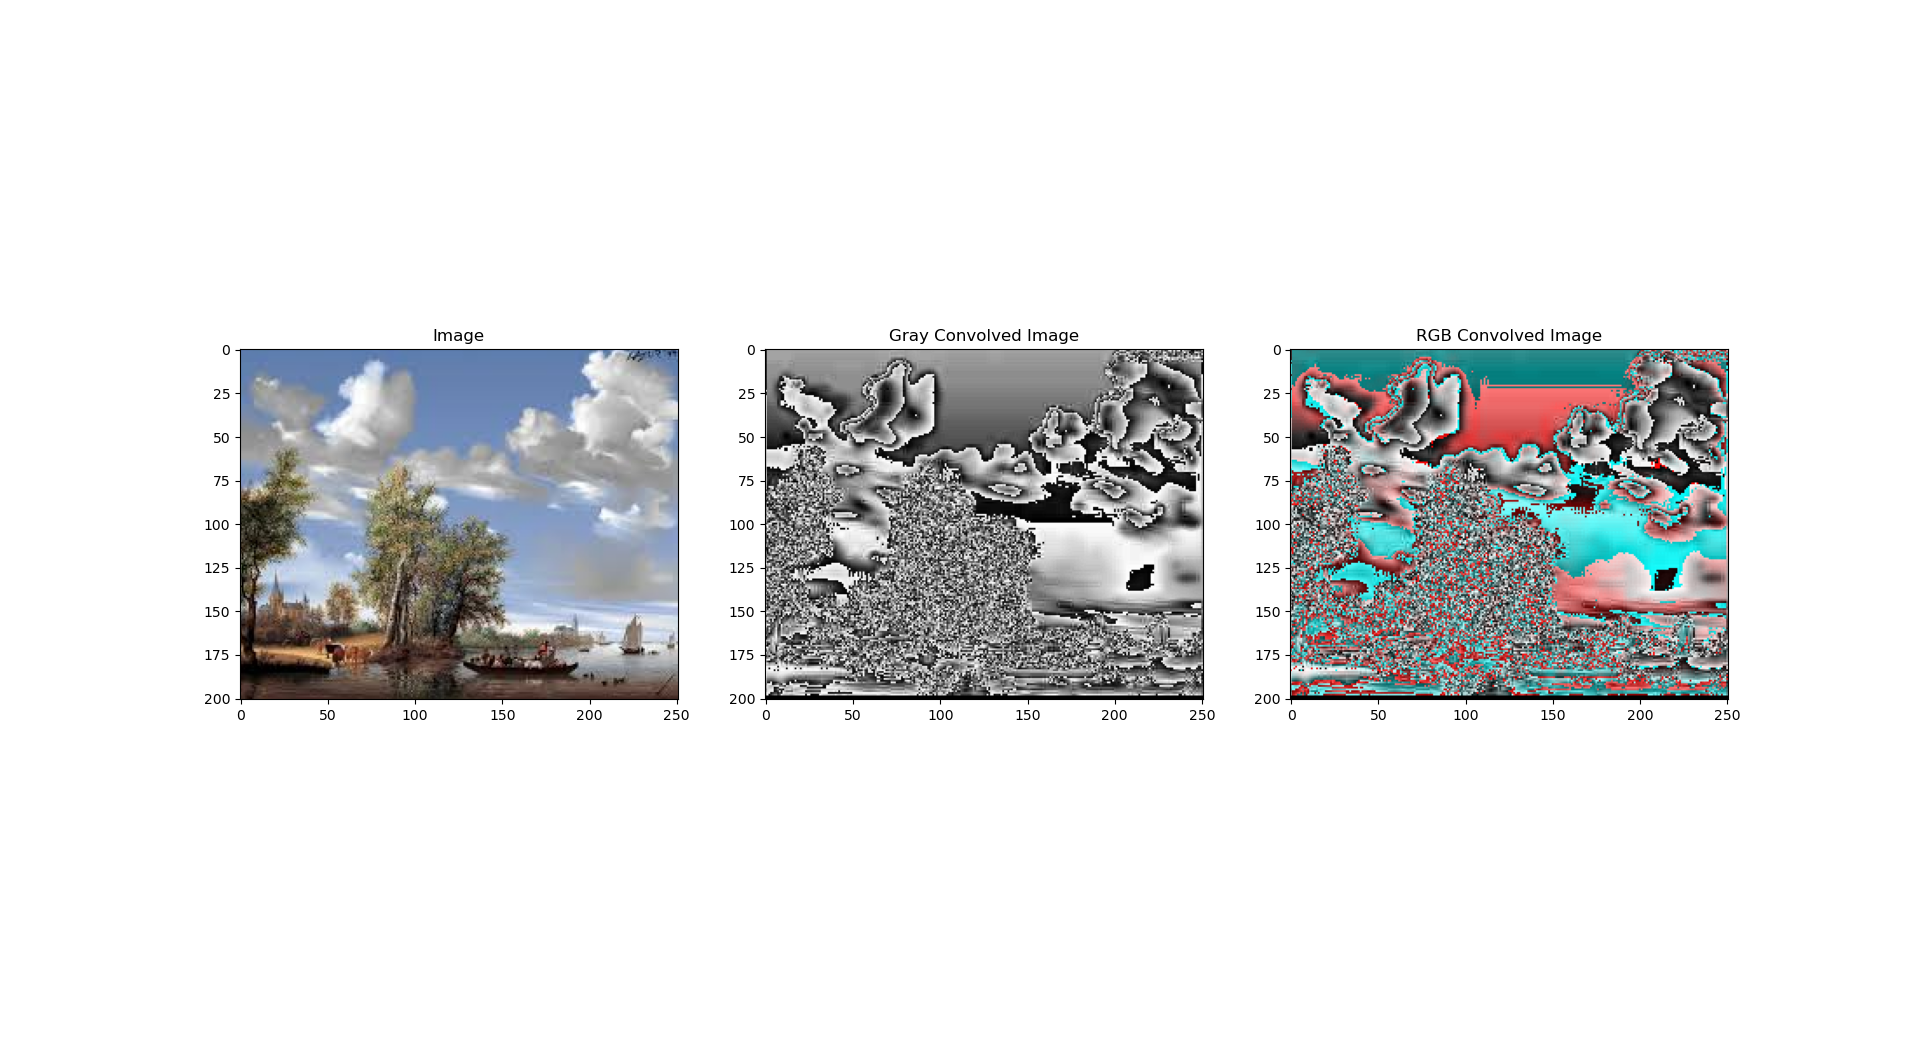
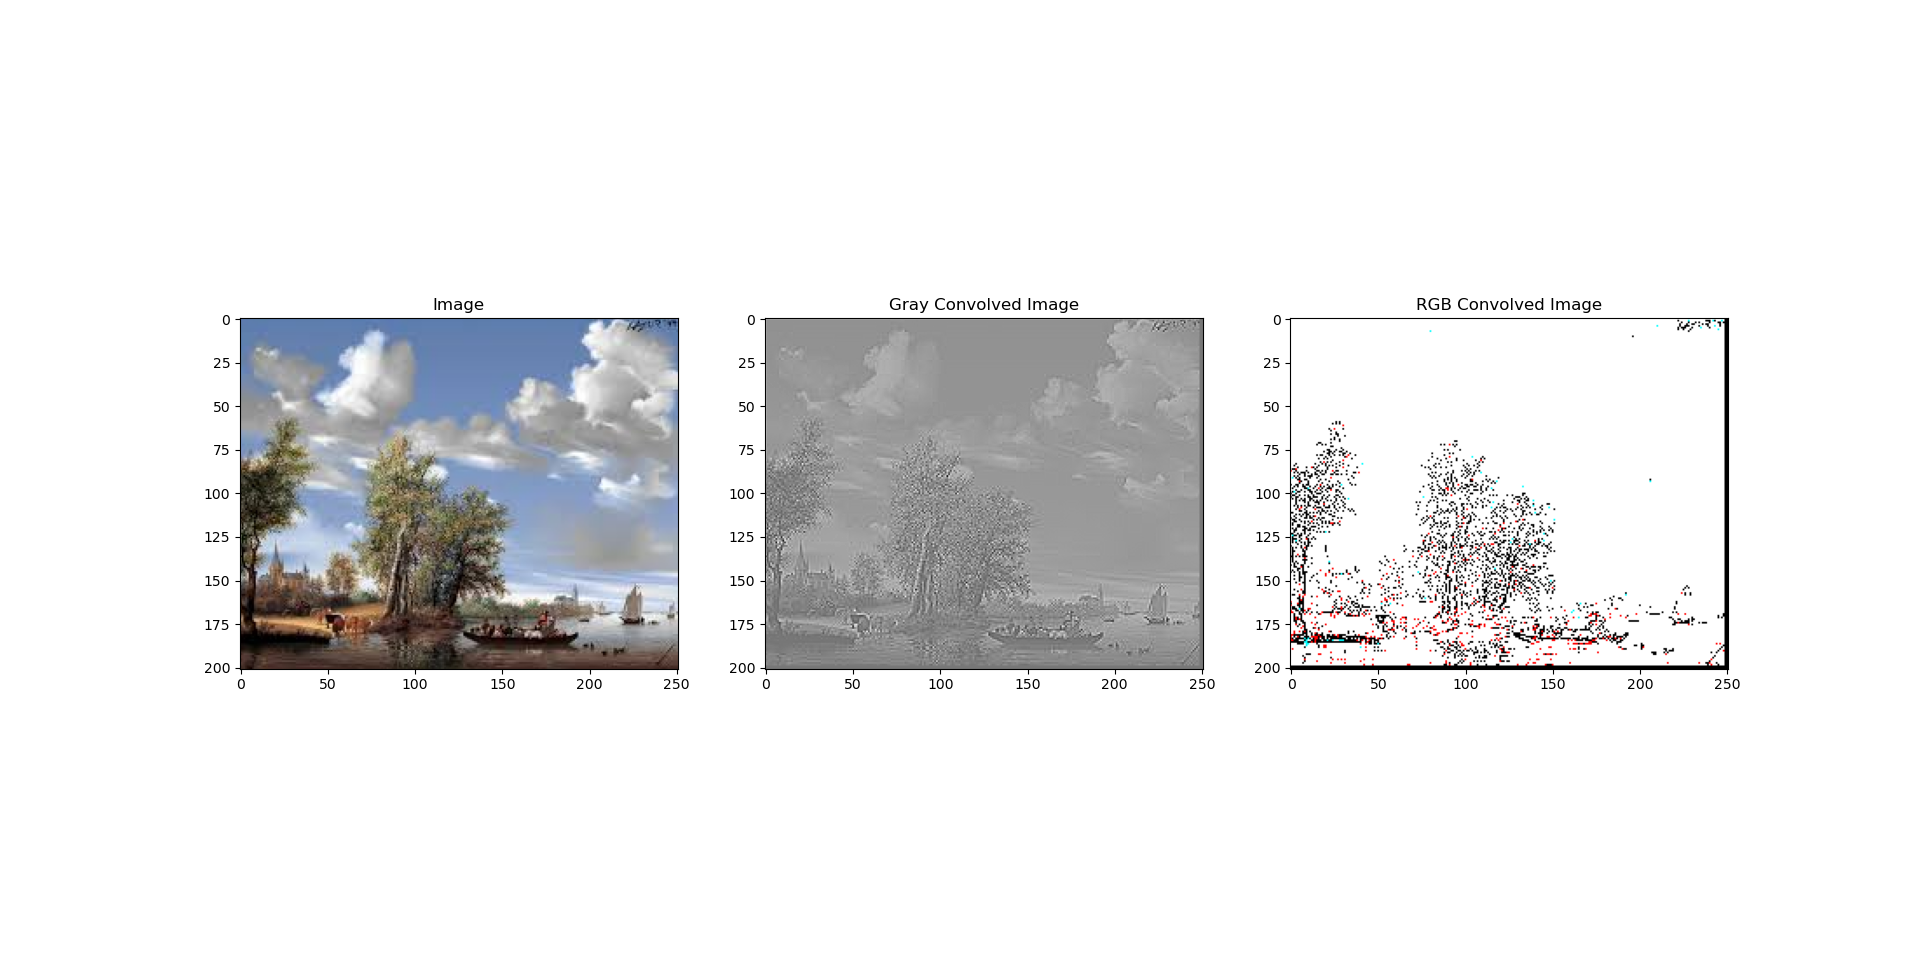
bug fixed

Changed region(s): [[0.0938, 0.3071, 0.9062, 0.7062], [0.1875, 0.4299, 0.2188, 0.4606]]

diff --git a/convolve.py b/convolve.py
@@ -4,7 +4,6 @@ import matplotlib.pyplot as plt
 from tqdm import tqdm 
 
 def convolve(img, kernel, pad=0, stride=1):
-    kernel = np.array([[-1,-1,-1],[-1,3,-1],[-1,-1,-1]])
     channels = 1
     try:
         if img.shape[2]==3: # three channels
@@ -25,13 +24,7 @@ def convolve(img, kernel, pad=0, stride=1):
                 img = c2
             else:
                 img==c2
-
-        if pad<0:
-            raise Exception("Argument pad cannot be less than 0.") 
-
-        if stride<1:
-            raise Exception("Argument stride cannot be less than 1.") 
-        
+            
         img_height = img.shape[0]
         img_width = img.shape[1] 
         kernel_height = kernel.shape[0]
@@ -44,32 +37,32 @@ def convolve(img, kernel, pad=0, stride=1):
         if pad==0:
             padded_img = pad
         else:
-            padded_img = np.zeros((img_height+2*pad, img_width+2*pad))
+            padded_img = np.zeros((img_height+pad*2, img_width+pad*2))
             padded_img[pad:pad+img_height, pad:pad+img_width] = img
 
-        for y in tqdm(range(img_height)):
-            if y > (img_height-kernel_height):
+        for y in tqdm(range(img_width)):
+            if y > (img_width-kernel_width):
                 break
 
             if y%stride==0:
-                for x in range(img_width):
-                    if y > (img_height-kernel_height):
+                for x in range(img_height):
+                    if x > (img_height-kernel_height):
                         break
 
                     if x%stride==0:
-                        out_img[y,x] = (padded_img[y:y+kernel_height, x:x+kernel_width] * kernel).sum()
+                        out_img[x,y] = (padded_img[x:x+kernel_height, y:y+kernel_width] * kernel).sum()
 
         final_img.append(out_img)
     
-    final_img = np.array(final_img).transpose(1,2,0).astype(np.uint8)
+    final_img = np.array(final_img).transpose(1,2,0)
     
     return final_img
 
 
 if __name__=='__main__':
 
-    kernel = np.array([[-1,-1,-1],[-1,3,-1],[-1,-1,-1]])
-    # kernel = np.array([[-1,0,-1],[-1,0,-1],[-1,0,-1]])
+    kernel = np.array([[0,-1,0],[-1,5,-1],[0,-1,0]])
+
     img = cv2.imread("/home/nayal/Documents/ImageProcessingTools/images/image.jpg")
     rgb = cv2.cvtColor(img, cv2.COLOR_BGR2RGB)
     gray = cv2.cvtColor(img, cv2.COLOR_BGR2GRAY)
